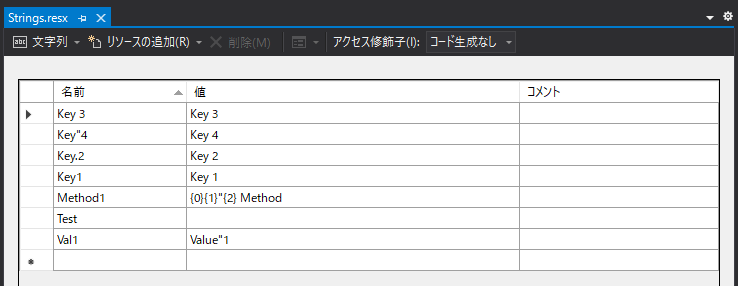
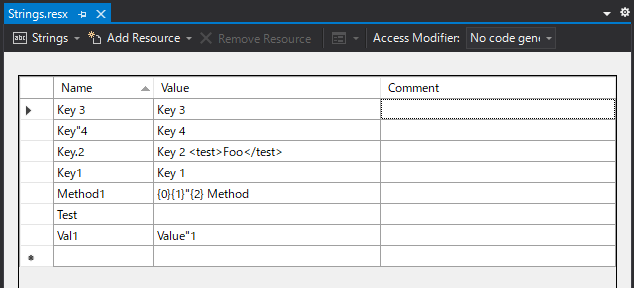
update readme.md

Changed region(s): [[0.0, 0.0, 1.0, 1.0]]

diff --git a/src/Nut.ResxBridge/ResxClassTemplate.cs b/src/Nut.ResxBridge/ResxClassTemplate.cs
@@ -97,7 +97,7 @@ namespace Nut.ResxBridge
  } 
             this.Write("\r\n");
  } 
-            this.Write("\r\n    }\r\n}");
+            this.Write("    }\r\n}");
             return this.GenerationEnvironment.ToString();
         }
     }

diff --git a/README.md b/README.md
@@ -13,48 +13,83 @@ Resx source:
 Generated source:
 
 ```cs
-[CompilerGenerated]
-[GeneratedCode("Nut.ResxBridge", "0.1.1")]
-internal static partial class Strings
+/// <auto-generated>
+/// This code was generated by Nut.ResxBridge.
+/// </auto-generated>
+
+using System;
+using System.Resources;
+using System.Runtime.CompilerServices;
+using System.CodeDom.Compiler;
+
+namespace ConsoleApp1.Resources
 {
-    private static ResourceManager resourceManager = new ResourceManager(typeof(ConsoleApp1.Resources.Strings));
-
-    private static string GetResourceString(string resourceKey, string defaultString = null)
+    [CompilerGenerated]
+    [GeneratedCode("Nut.ResxBridge", "0.3.0")]
+    internal static partial class Strings
     {
-        string resourceString = null;
-        try
-        {
-            resourceString = resourceManager.GetString(resourceKey);
-        }
-        catch (MissingManifestResourceException) { }
+        private static ResourceManager resourceManager = new ResourceManager(typeof(ConsoleApp1.Resources.Strings));
 
-        if (defaultString != null && resourceKey.Equals(resourceString))
+        private static string GetResourceString(string resourceKey, string defaultString = null)
         {
-            return defaultString;
+            string resourceString = null;
+            try
+            {
+                resourceString = resourceManager.GetString(resourceKey);
+            }
+            catch (MissingManifestResourceException) { }
+
+            if (defaultString != null && resourceKey.Equals(resourceString))
+            {
+                return defaultString;
+            }
+
+            return resourceString;
         }
 
-        return resourceString;
+        private static string Format(string resourceFormat, params object[] args)
+        {
+            if (args != null)
+            {
+                return string.Format(resourceFormat, args);
+            }
+
+            return resourceFormat;
+        }
+
+        /// <summary>
+        /// Looks up a localized string similar to Key 3.
+        /// </summary>
+        public static string Key_3 => GetResourceString(@"Key 3", @"Key 3");
+
+        /// <summary>
+        /// Looks up a localized string similar to Key 4.
+        /// </summary>
+        public static string Key_4 => GetResourceString(@"Key""4", @"Key 4");
+
+        /// <summary>
+        /// Looks up a localized string similar to Key 2 &lt;test&gt;Foo&lt;/test&gt;.
+        /// </summary>
+        public static string Key_2 => GetResourceString(@"Key.2", @"Key 2 <test>Foo</test>");
+
+        /// <summary>
+        /// Looks up a localized string similar to Key 1.
+        /// </summary>
+        public static string Key1 => GetResourceString(@"Key1", @"Key 1");
+
+        /// <summary>
+        /// Looks up a localized string similar to {0}{1}&quot;{2} Method.
+        /// </summary>
+        public static string Method1(object _0, object _1, object _2)
+             => Format(GetResourceString(@"Method1", @"{0}{1}""{2} Method"), 
+                 _0, _1, _2);
+
+        /// <summary>
+        /// Looks up a localized string similar to Value&quot;1.
+        /// </summary>
+        public static string Val1 => GetResourceString(@"Val1", @"Value""1");
+
     }
-
-    private static string Format(string resourceFormat, params object[] args)
-    {
-        if (args != null)
-        {
-            return string.Format(resourceFormat, args);
-        }
-
-        return resourceFormat;
-    }
-
-    public static string Key_3 => GetResourceString(@"Key 3", @"Key 3");
-    public static string Key_4 => GetResourceString(@"Key""4", @"Key 4");
-    public static string Key_2 => GetResourceString(@"Key.2", @"Key 2");
-    public static string Key1 => GetResourceString(@"Key1", @"Key 1");
-    public static string Method1(object _0, object _1, object _2)
-            => Format(GetResourceString(@"Method1", @"{0}{1}""{2} Method"), 
-                _0, _1, _2);
-    public static string Val1 => GetResourceString(@"Val1", @"Value""1");
-
 }
 ```
 
@@ -76,5 +111,5 @@ internal static partial class Strings
   - e.g. Strings.ja.resx
 - ファイル名と同じキーの項目は生成されません。
 - 値がないキーの項目は生成されません。(将来修正予定)
-- プロパティ/メソッド名にできない値を持つキーは、NGな値が自動的に`_`に置き換えられます。
-  - または先頭に付加されます。
+- プロパティ/メソッド名にできない文字が含まれるキーは、NGな文字が自動的に`_`に置き換えられます。
+  - または先頭に`_`が付加されます。
